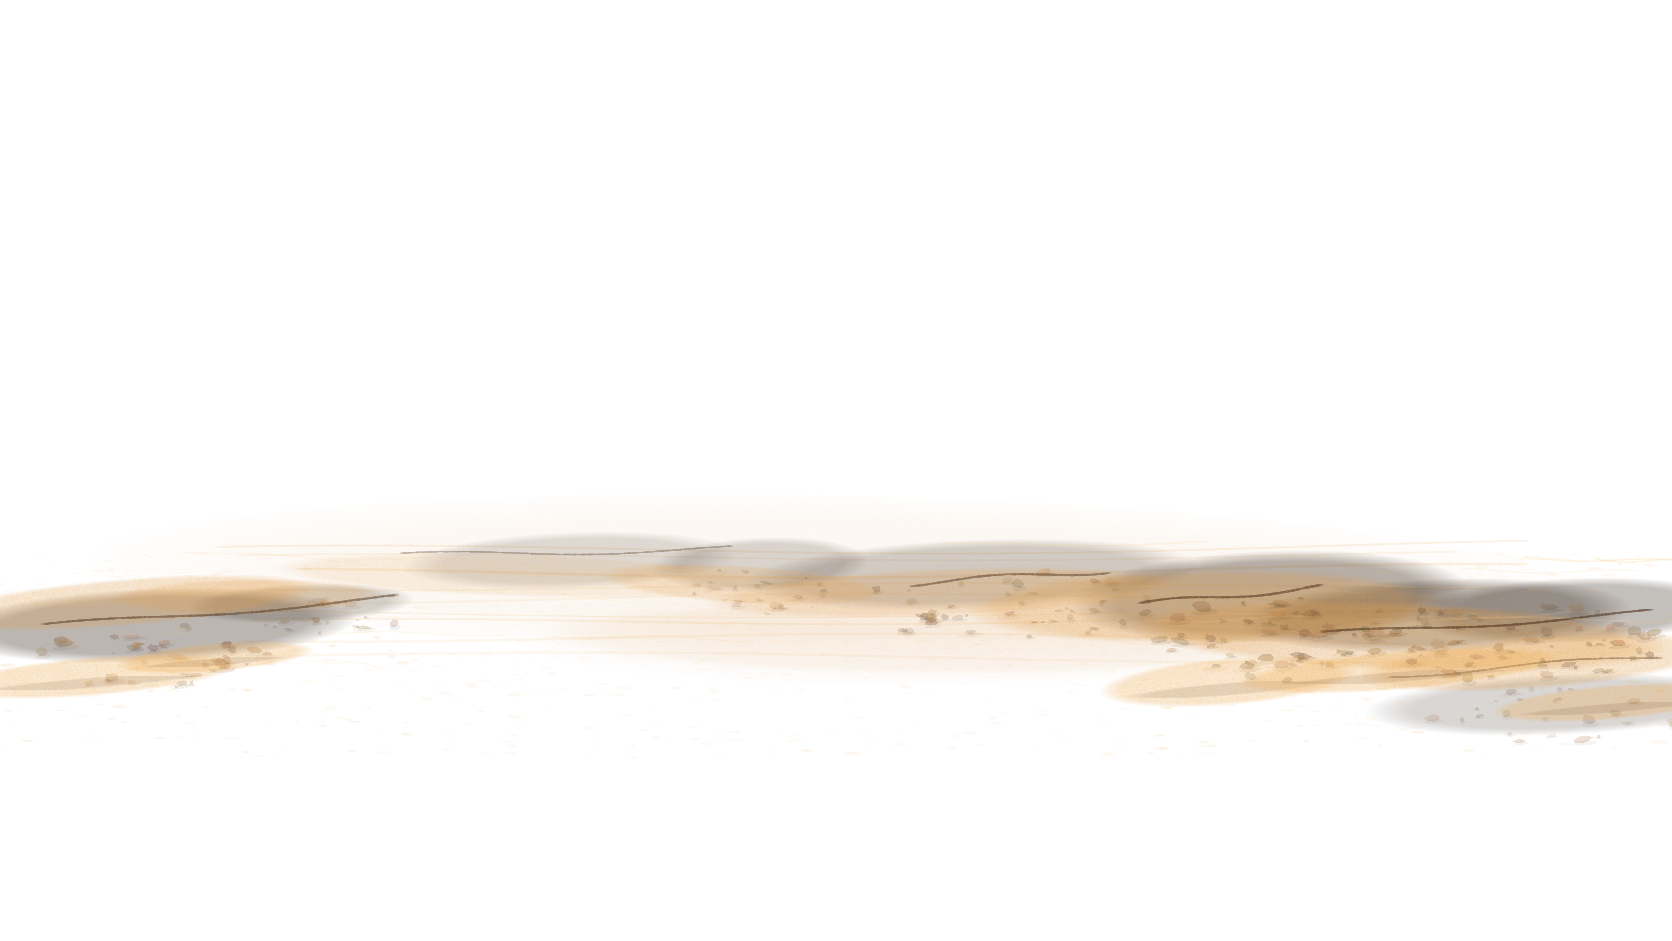
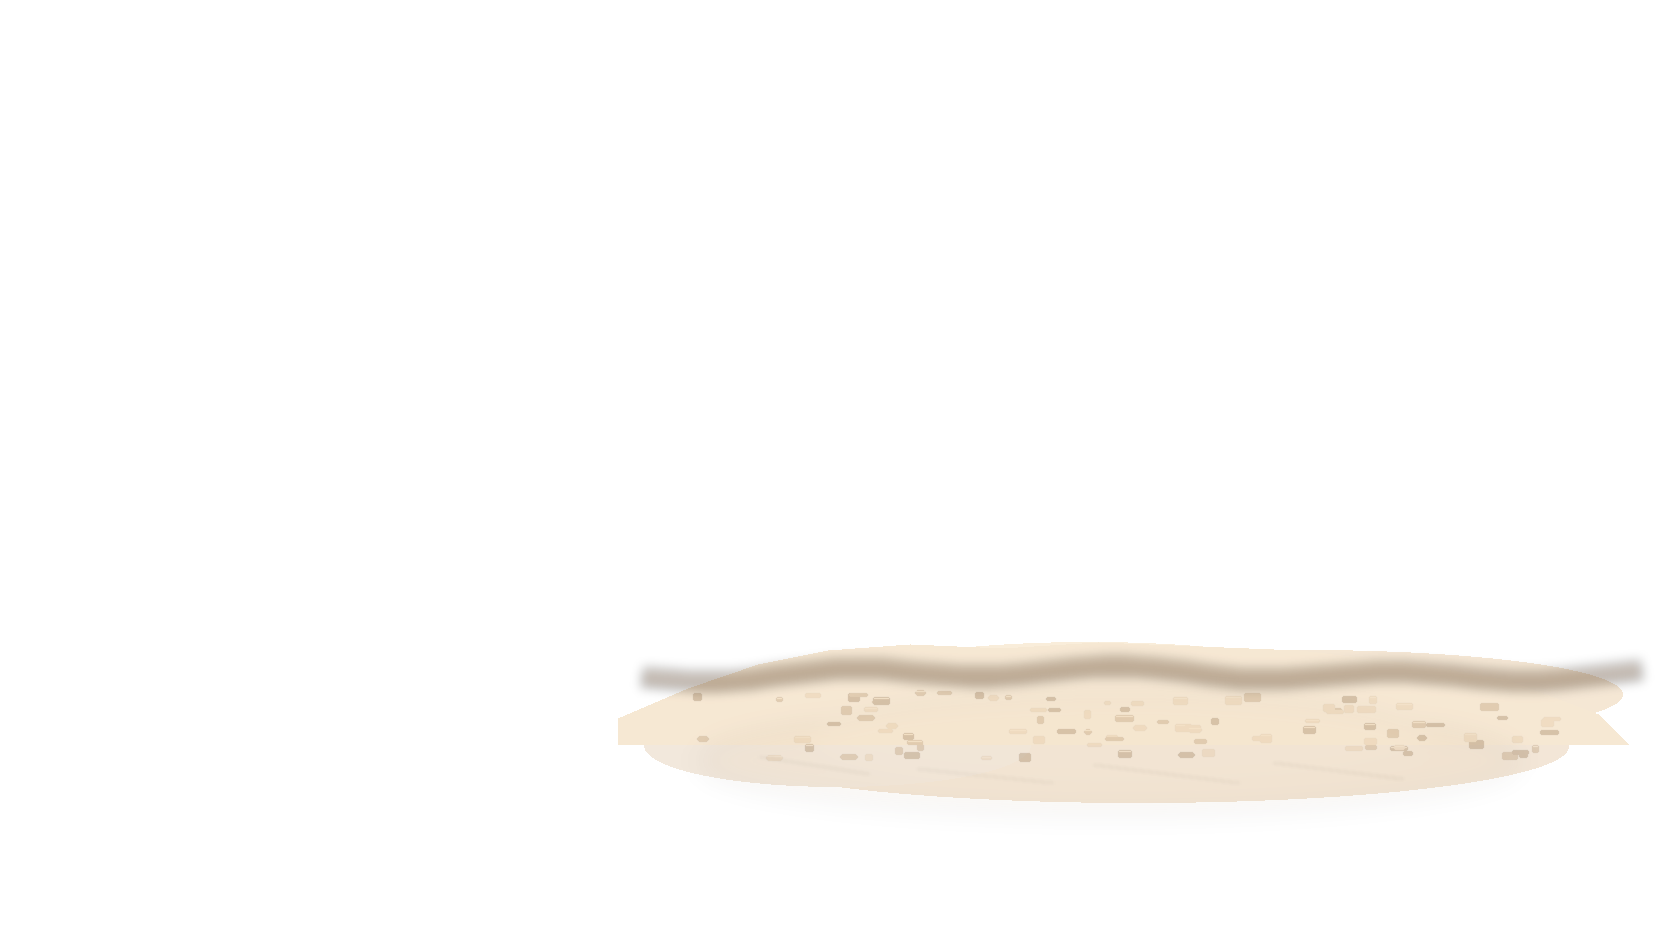
Update Asha warrior sprite atlas

Changed region(s): [[0.0, 0.5547, 1.0, 0.8629]]

diff --git a/src/components/ExpeditionJourney.jsx b/src/components/ExpeditionJourney.jsx
@@ -2220,6 +2220,7 @@ const PROP_GROUNDING_INTEGRATION_VERSION = 'grounded-plane-preset-contact-shadow
 const ROUTE_GROUND_VISUAL_MODE = 'edge-and-local-aprons-no-full-width-haze';
 const ROUTE_GROUND_HAZE_FIX_VERSION = 'route-ground-no-bottom-haze-2026-05-21';
 const FOREGROUND_DEPTH_LAYER_MODE = 'edge-framed-visual-only-no-collision';
+const ENABLE_FOREGROUND_DEPTH_LAYER = false;
 const DRAW_JOURNEY_FLAG_MARKERS = false;
 const JOURNEY_FLAG_VISUAL_MODE = 'flags-removed-stone-cairns-v1';
 const WORLD_CONTINUITY_VERSION = 'connected-expedition-world-2026-05-16';
@@ -6629,7 +6630,23 @@ export default function ExpeditionJourney({
   const drawPlatform = useCallback((ctx, platform, cameraX, current) => {
     const x = worldToScreenX(platform.x, cameraX);
     if (!isHorizontallyVisible(platform.x, platform.width, cameraX, 50)) return;
-    if (platform.invisible) return;
+    if (platform.invisible) {
+      const _show = window._pShow || [];
+      if (_show.length > 0 && (platform.id || '') && _show.some(p => platform.id.startsWith(p))) {
+        const _e = (window._pAdj || {})[platform.id] || {};
+        const _ay = (_e.y || 0), _ax = (_e.x || 0), _aw = (_e.w || 0);
+        const _dy = platform.y + _ay, _dx = x + _ax, _dw = platform.width + _aw;
+        ctx.save();
+        ctx.strokeStyle = 'rgba(255,100,0,0.92)'; ctx.lineWidth = 2;
+        ctx.strokeRect(_dx, _dy, _dw, platform.height);
+        ctx.fillStyle = 'rgba(255,100,0,0.18)';
+        ctx.fillRect(_dx, _dy, _dw, platform.height);
+        ctx.fillStyle = '#fff'; ctx.font = 'bold 10px monospace';
+        ctx.fillText(platform.id + '  y=' + Math.round(_dy) + '  x=' + Math.round(platform.x + _ax) + '  w=' + Math.round(_dw), _dx + 3, _dy + 12);
+        ctx.restore();
+      }
+      return;
+    }
 
     ctx.save();
     if (platform.secret && platform.secretVisibility !== 'visible' && !current.collectedUpgrades.has('ancient-compass')) {
@@ -6883,17 +6900,20 @@ export default function ExpeditionJourney({
     const drawX = x - width / 2;
     const drawY = prop.y;
     const baseY = drawY + height;
+    const groundY = Math.min(GROUND_Y - 2, baseY - 6);
 
-    drawContactShadow(ctx, x, Math.min(GROUND_Y - 2, baseY - 4), width * 0.52, 0.13, 1.4);
-    drawDecorativeBaseBlend(ctx, x - width * 0.1, Math.min(GROUND_Y - 2, baseY - 6), width * 0.4, section.id, prop.depth || 'background', 0.58);
+    drawRouteGroundApron(ctx, x - width * 0.06, groundY, width * 0.62, section.id, 0.98, Math.round(prop.x));
+    drawContactShadow(ctx, x, groundY + 1, width * 0.66, 0.22, 1.6, { height: 14, color: 'rgba(27, 16, 8, 0.96)' });
+    drawDecorativeBaseBlend(ctx, x - width * 0.12, groundY - 1, width * 0.52, section.id, prop.depth || 'background', 0.82);
     ctx.globalAlpha = prop.alpha ?? 0.98;
     ctx.filter = 'sepia(2%) saturate(102%) brightness(98%) contrast(104%) drop-shadow(0 18px 18px rgba(34, 18, 8, 0.2))';
     ctx.drawImage(structureAsset.image, drawX, drawY, width, height);
     ctx.filter = 'none';
     ctx.globalAlpha = 1;
-    drawGroundDustLip(ctx, x - width * 0.16, Math.min(GROUND_Y - 2, baseY - 8), width * 0.42, 'rgba(188, 127, 61, 0.18)');
+    drawGroundDustLip(ctx, x - width * 0.12, groundY - 3, width * 0.58, 'rgba(188, 127, 61, 0.28)');
+    drawGroundDustLip(ctx, x + width * 0.08, groundY - 1, width * 0.34, 'rgba(214, 160, 88, 0.18)');
     return true;
-  }, [drawContactShadow, drawDecorativeBaseBlend, drawGroundDustLip]);
+  }, [drawContactShadow, drawDecorativeBaseBlend, drawGroundDustLip, drawRouteGroundApron]);
 
   const drawScribeChamberDoorwayStructure = useCallback((ctx, prop, x, section, now) => {
     const width = prop.width || 1120;
@@ -6911,8 +6931,10 @@ export default function ExpeditionJourney({
     if (structureAsset.loaded && structureAsset.image) {
       ctx.save();
       ctx.globalAlpha = prop.alpha ?? 1;
-      drawContactShadow(ctx, centerX, Math.min(GROUND_Y - 2, baseY - 5), width * 0.62, 0.2, 1.4);
-      drawDecorativeBaseBlend(ctx, centerX - width * 0.02, Math.min(GROUND_Y - 3, baseY - 9), width * 0.5, section.id, prop.depth || 'route-edge', 0.62);
+      const groundY = Math.min(GROUND_Y - 3, baseY - 8);
+      drawRouteGroundApron(ctx, centerX - width * 0.04, groundY, width * 0.64, section.id, 1.02, Math.round(prop.x));
+      drawContactShadow(ctx, centerX, groundY + 1, width * 0.72, 0.26, 1.5, { height: 15, color: 'rgba(28, 16, 8, 0.96)' });
+      drawDecorativeBaseBlend(ctx, centerX - width * 0.02, groundY - 2, width * 0.58, section.id, prop.depth || 'route-edge', 0.86);
       ctx.filter = `sepia(4%) saturate(108%) brightness(${98 + pulse * 4}%) contrast(106%) drop-shadow(0 20px 22px rgba(39, 18, 7, 0.3))`;
       ctx.drawImage(structureAsset.image, left, top, width, height);
       ctx.filter = 'none';
@@ -6924,7 +6946,8 @@ export default function ExpeditionJourney({
       ctx.fillStyle = doorwayGlow;
       ctx.fillRect(centerX - width * 0.28, top + height * 0.12, width * 0.56, height * 0.48);
       ctx.globalCompositeOperation = 'source-over';
-      drawGroundDustLip(ctx, centerX, Math.min(GROUND_Y - 3, baseY - 8), width * 0.45, 'rgba(250, 204, 21, 0.14)');
+      drawGroundDustLip(ctx, centerX, groundY - 2, width * 0.56, 'rgba(205, 137, 64, 0.22)');
+      drawGroundDustLip(ctx, centerX + width * 0.14, groundY, width * 0.3, 'rgba(236, 184, 112, 0.14)');
 
       if (stateRef.current.renderStats) {
         stateRef.current.renderStats.scribeChamberExteriorVersion = SCRIBE_CHAMBER_EXTERIOR_VERSION;
@@ -7050,7 +7073,7 @@ export default function ExpeditionJourney({
     }
     ctx.restore();
     return true;
-  }, [drawContactShadow, drawDecorativeBaseBlend, drawGroundDustLip]);
+  }, [drawContactShadow, drawDecorativeBaseBlend, drawGroundDustLip, drawRouteGroundApron]);
 
   const drawForgottenMuralChamberInterior = useCallback((ctx, current, now) => {
     if (!isForgottenMuralChamberScene(current)) return false;
@@ -9721,18 +9744,18 @@ export default function ExpeditionJourney({
   const drawForegroundDepthParticles = useCallback((ctx, now, cameraX) => {
     let particleCount = 0;
     ctx.save();
-    for (let index = 0; index < 24; index += 1) {
+    for (let index = 0; index < 18; index += 1) {
       const drift = (now * (0.006 + (index % 5) * 0.0017) + cameraX * 0.035 + index * 91) % (CANVAS_WIDTH + 180);
       const x = drift - 90;
       const edgeWeight = Math.max(
         clamp(1 - x / 230, 0, 1),
         clamp((x - (CANVAS_WIDTH - 230)) / 230, 0, 1),
       );
-      const y = GROUND_Y - 72 + (index % 6) * 17 + Math.sin(now / 900 + index) * 7;
-      const alpha = (0.026 + edgeWeight * 0.028) * (index % 3 === 0 ? 1.25 : 1);
+      const y = GROUND_Y - 34 + (index % 4) * 11 + Math.sin(now / 900 + index) * 4;
+      const alpha = (0.012 + edgeWeight * 0.014) * (index % 3 === 0 ? 1.15 : 1);
       ctx.fillStyle = `rgba(232, 205, 157, ${alpha})`;
       ctx.beginPath();
-      ctx.ellipse(x, y, 18 + (index % 4) * 7, 2.4 + (index % 3), -0.08, 0, Math.PI * 2);
+      ctx.ellipse(x, y, 14 + (index % 4) * 6, 1.8 + (index % 3), -0.08, 0, Math.PI * 2);
       ctx.fill();
       particleCount += 1;
     }
@@ -9762,31 +9785,17 @@ export default function ExpeditionJourney({
     const dustOffset = Math.sin(now / 1800 + cameraX * 0.002) * 18;
     drawRegion('lowDustVeil', {
       x: -72 + dustOffset,
-      y: GROUND_Y - 58,
+      y: GROUND_Y - 34,
       width: CANVAS_WIDTH + 144,
-      height: 118,
-    }, 0.34, { mode: 'stretch' });
-    drawRegion('softSandDrift', { x: -126, y: GROUND_Y - 42, width: 410, height: 96 }, 0.5, { mode: 'stretch' });
-    drawRegion('softSandDrift', { x: CANVAS_WIDTH - 428, y: GROUND_Y - 48, width: 440, height: 104 }, 0.46, { mode: 'stretch' });
-    drawRegion('leftBrokenColumn', {
-      x: -96,
-      y: GROUND_Y - 306,
-      width: 206,
-      height: 322,
-    }, 0.54, { filter: 'sepia(5%) saturate(92%) brightness(96%) contrast(102%)' });
-    drawRegion('rightBrokenColumn', {
-      x: CANVAS_WIDTH - 138,
-      y: GROUND_Y - 330,
-      width: 214,
-      height: 346,
-    }, 0.56, { filter: 'sepia(5%) saturate(92%) brightness(95%) contrast(103%)' });
-    drawRegion('rubbleClusterSmall', { x: -34, y: GROUND_Y - 52, width: 174, height: 82 }, 0.5);
-    drawRegion('buriedCarvedHead', { x: -48, y: GROUND_Y - 104, width: 150, height: 126 }, 0.4);
-    drawRegion('damagedWallFragment', { x: CANVAS_WIDTH - 116, y: GROUND_Y - 168, width: 172, height: 136 }, 0.4);
-    drawRegion('deadPalmRemnant', { x: CANVAS_WIDTH - 330, y: GROUND_Y - 132, width: 228, height: 162 }, 0.42);
-    drawRegion('dryShrub', { x: CANVAS_WIDTH - 176, y: GROUND_Y - 116, width: 122, height: 112 }, 0.5);
-    drawRegion('rubbleClusterLarge', { x: CANVAS_WIDTH - 302, y: GROUND_Y - 82, width: 280, height: 122 }, 0.64);
-    drawRegion('edgePebbleScatter', { x: CANVAS_WIDTH - 432, y: GROUND_Y - 42, width: 390, height: 66 }, 0.46, { mode: 'stretch' });
+      height: 72,
+    }, 0.16, { mode: 'stretch' });
+    drawRegion('softSandDrift', { x: -88, y: GROUND_Y - 24, width: 310, height: 58 }, 0.22, { mode: 'stretch' });
+    drawRegion('softSandDrift', { x: CANVAS_WIDTH - 336, y: GROUND_Y - 28, width: 350, height: 62 }, 0.2, { mode: 'stretch' });
+    drawRegion('rubbleClusterSmall', { x: -18, y: GROUND_Y - 34, width: 128, height: 54 }, 0.24);
+    drawRegion('buriedCarvedHead', { x: -34, y: GROUND_Y - 62, width: 86, height: 72 }, 0.14);
+    drawRegion('dryShrub', { x: CANVAS_WIDTH - 132, y: GROUND_Y - 68, width: 84, height: 76 }, 0.22);
+    drawRegion('rubbleClusterLarge', { x: CANVAS_WIDTH - 250, y: GROUND_Y - 44, width: 214, height: 74 }, 0.26);
+    drawRegion('edgePebbleScatter', { x: CANVAS_WIDTH - 370, y: GROUND_Y - 28, width: 318, height: 44 }, 0.24, { mode: 'stretch' });
     const particleCount = drawForegroundDepthParticles(ctx, now, cameraX);
     ctx.restore();
 
@@ -12017,7 +12026,7 @@ export default function ExpeditionJourney({
       if (!shouldRenderStageEntranceFeatureForState(feature, current)) return;
       drawStageEntranceForegroundOccluder(ctx, feature, cameraX, now);
     });
-    if (!chamberSceneActive) drawForegroundDepthLayer(ctx, section, cameraX, now);
+    if (!chamberSceneActive && ENABLE_FOREGROUND_DEPTH_LAYER) drawForegroundDepthLayer(ctx, section, cameraX, now);
     drawOpeningThresholdScene(ctx, current.openingThresholdScene, cameraX, now);
     drawTempleThresholdTransition(ctx, current.templeThresholdTransition, now);
     drawForgottenMuralChamberTransition(ctx, current.forgottenMuralChamberTransition);

diff --git a/src/components/expedition-journey/journeySecrets.test.js b/src/components/expedition-journey/journeySecrets.test.js
@@ -1604,7 +1604,7 @@ test('Asha Reference Warrior remains available as a separate character-loader at
   assert.equal(Object.keys(ashaReferenceWarriorPlayerAtlas.poseSources).length, 107);
   assert.equal(
     ashaReferenceWarriorPlayerAtlas.poseSources.idle_00,
-    'asha-reference-warrior-idle-row-raw.png:frame_00',
+    'asha-reference-warrior-idle-still-guard-pass1-normalized-4096x512-candidate-2026-05-30.png:frame_00',
   );
   assert.equal(
     ashaReferenceWarriorPlayerAtlas.poseSources.attack_pick_swing_07,
@@ -1612,11 +1612,11 @@ test('Asha Reference Warrior remains available as a separate character-loader at
   );
   assert.equal(
     ashaReferenceWarriorPlayerAtlas.poseSources.attack_pick_swing_alt_07,
-    'asha-reference-warrior-attack-chain-02-diagonal-clean-normalized-4096x512-candidate-2026-05-29.png:frame_07',
+    'asha-reference-warrior-attack-chain-02-diagonal-framebyframe-pass1-normalized-4096x512-candidate-2026-05-30.png:frame_07',
   );
   assert.equal(
     ashaReferenceWarriorPlayerAtlas.poseSources.attack_pick_swing_sweep_07,
-    'asha-reference-warrior-attack-chain-03-sweep-clean-normalized-4096x512-candidate-2026-05-29.png:frame_07',
+    'asha-reference-warrior-attack-chain-03-sweep-framebyframe-pass1c-normalized-4096x512-candidate-2026-05-30.png:frame_07',
   );
   assert.equal(
     ashaReferenceWarriorPlayerAtlas.poseSources.run_07,
@@ -2551,6 +2551,7 @@ test('desert entry grounding overlay stays a transparent archaeological sediment
   assert.equal(overlayBytes.readUInt32BE(20), desertEntryBackgroundAtlas.imageHeight);
   assert.equal(overlayBytes[25], 6, 'grounding overlay should be RGBA so the clean background remains canonical');
   [
+    /buried ruin shelf/i,
     /sand drifts/i,
     /rubble fields/i,
     /contact shadows/i,
@@ -2585,13 +2586,17 @@ test('desert entry foreground depth pack stays transparent, visual-only, and edg
     assert.ok(foregroundAtlas.regions[key], `${key} should be present in the foreground depth pack`);
   });
   assert.match(foregroundAtlas.mappingNote, /visual-only/i);
-  assert.match(foregroundAtlas.mappingNote, /screen edges/i);
+  assert.match(foregroundAtlas.mappingNote, /terrain-level framing/i);
   assert.match(foregroundAtlas.mappingNote, /no collision/i);
   assert.match(foregroundAtlas.mappingNote, /does not replace existing artwork/i);
+  assert.match(foregroundAtlas.mappingNote, /avoid tall ghosted edge cutouts/i);
   assert.match(journeyRenderAssetsSource, /EGYPT_FOREGROUND_DEPTH_ASSET_VERSION/);
   assert.match(journeyRenderAssetsSource, /EGYPT_FOREGROUND_DEPTH/);
+  assert.match(journeyComponentSource, /ENABLE_FOREGROUND_DEPTH_LAYER = false/);
   assert.match(journeyComponentSource, /drawForegroundDepthLayer/);
   assert.match(journeyComponentSource, /drawForegroundDepthParticles/);
+  assert.doesNotMatch(journeyComponentSource, /drawRegion\('leftBrokenColumn'/);
+  assert.doesNotMatch(journeyComponentSource, /drawRegion\('rightBrokenColumn'/);
   assert.doesNotMatch(journeyComponentSource, /FOREGROUND_DEPTH[\s\S]{0,240}PLATFORMS/);
 });
 

diff --git a/src/components/expedition-journey/journeyLevelData.js b/src/components/expedition-journey/journeyLevelData.js
@@ -35,10 +35,10 @@ export const PLATFORMS = [
   { x: X(4010), y: GROUND_Y, width: X(1900), height: 60, label: 'catacomb path' },
   { x: X(5910), y: GROUND_Y, width: X(1450), height: 60, label: 'escape road' },
   { x: X(7360), y: GROUND_Y, width: WORLD_WIDTH - X(7360), height: 60, label: 'dig-site rise' },
-  { id: 'opening-lower-ruin-ledge', x: 0, y: JY(318), width: 430, height: 18, label: 'invisible marked lower pyramid ledge', invisible: true },
-  { id: 'opening-first-terrace', x: 320, y: JY(166), width: 365, height: 18, label: 'invisible marked first pyramid terrace', invisible: true },
-  { id: 'opening-second-terrace', x: 420, y: JY(36), width: 395, height: 18, label: 'invisible marked second pyramid terrace', invisible: true },
-  { id: 'opening-scarab-seal-summit', x: 620, y: JY(-101), width: 360, height: 18, label: 'invisible marked scarab artefact platform', invisible: true },
+  { id: 'opening-lower-ruin-ledge', x: 0, y: JY(318), width: 330, height: 18, label: 'invisible marked lower pyramid ledge', invisible: true },
+  { id: 'opening-first-terrace', x: 355, y: JY(171), width: 365, height: 18, label: 'invisible marked first pyramid terrace', invisible: true },
+  { id: 'opening-second-terrace', x: 505, y: JY(24), width: 355, height: 18, label: 'invisible marked second pyramid terrace', invisible: true },
+  { id: 'opening-scarab-seal-summit', x: 770, y: JY(-135), width: 280, height: 18, label: 'invisible marked scarab artefact platform', invisible: true },
   { id: 'mummification-chamber-bottom-secret-threshold', x: X(638), y: JY(312), width: 176, height: 18, label: 'invisible bottom secret entrance threshold at the Mummification Chamber exterior', secret: true, invisible: true },
   { id: 'mummification-chamber-sand-buried-block', x: X(647), y: JY(278), width: 176, height: 18, label: 'invisible buried block at the Mummification Chamber exterior', secret: true, invisible: true },
   { id: 'mummification-chamber-far-left-ground-shelf', x: X(563), y: JY(230), width: 176, height: 18, label: 'invisible far left ground shelf on the Mummification Chamber exterior', secret: true, invisible: true },

diff --git a/scripts/build_asha_reference_warrior_atlas.py b/scripts/build_asha_reference_warrior_atlas.py
@@ -25,12 +25,12 @@ TARGET_SOURCE_HEIGHT = 224
 TARGET_RUN_FRAME_DISTANCE = 26
 
 SOURCES = {
-    "idle": SOURCE_DIR / "asha-reference-warrior-idle-row-raw.png",
+    "idle": SOURCE_DIR / "asha-reference-warrior-idle-still-guard-pass1-normalized-4096x512-candidate-2026-05-30.png",
     "run": SOURCE_DIR / "asha-reference-warrior-run-row-raw.png",
     "jump": SOURCE_DIR / "asha-reference-warrior-jump-row-raw.png",
     "attack_pick_swing": SOURCE_DIR / "asha-reference-warrior-attack-chain-01-quick-cut-clean-normalized-4096x512-candidate-2026-05-29.png",
-    "attack_pick_swing_alt": SOURCE_DIR / "asha-reference-warrior-attack-chain-02-diagonal-clean-normalized-4096x512-candidate-2026-05-29.png",
-    "attack_pick_swing_sweep": SOURCE_DIR / "asha-reference-warrior-attack-chain-03-sweep-clean-normalized-4096x512-candidate-2026-05-29.png",
+    "attack_pick_swing_alt": SOURCE_DIR / "asha-reference-warrior-attack-chain-02-diagonal-framebyframe-pass1-normalized-4096x512-candidate-2026-05-30.png",
+    "attack_pick_swing_sweep": SOURCE_DIR / "asha-reference-warrior-attack-chain-03-sweep-framebyframe-pass1c-normalized-4096x512-candidate-2026-05-30.png",
 }
 
 SOURCE_FRAME_COUNTS = {
